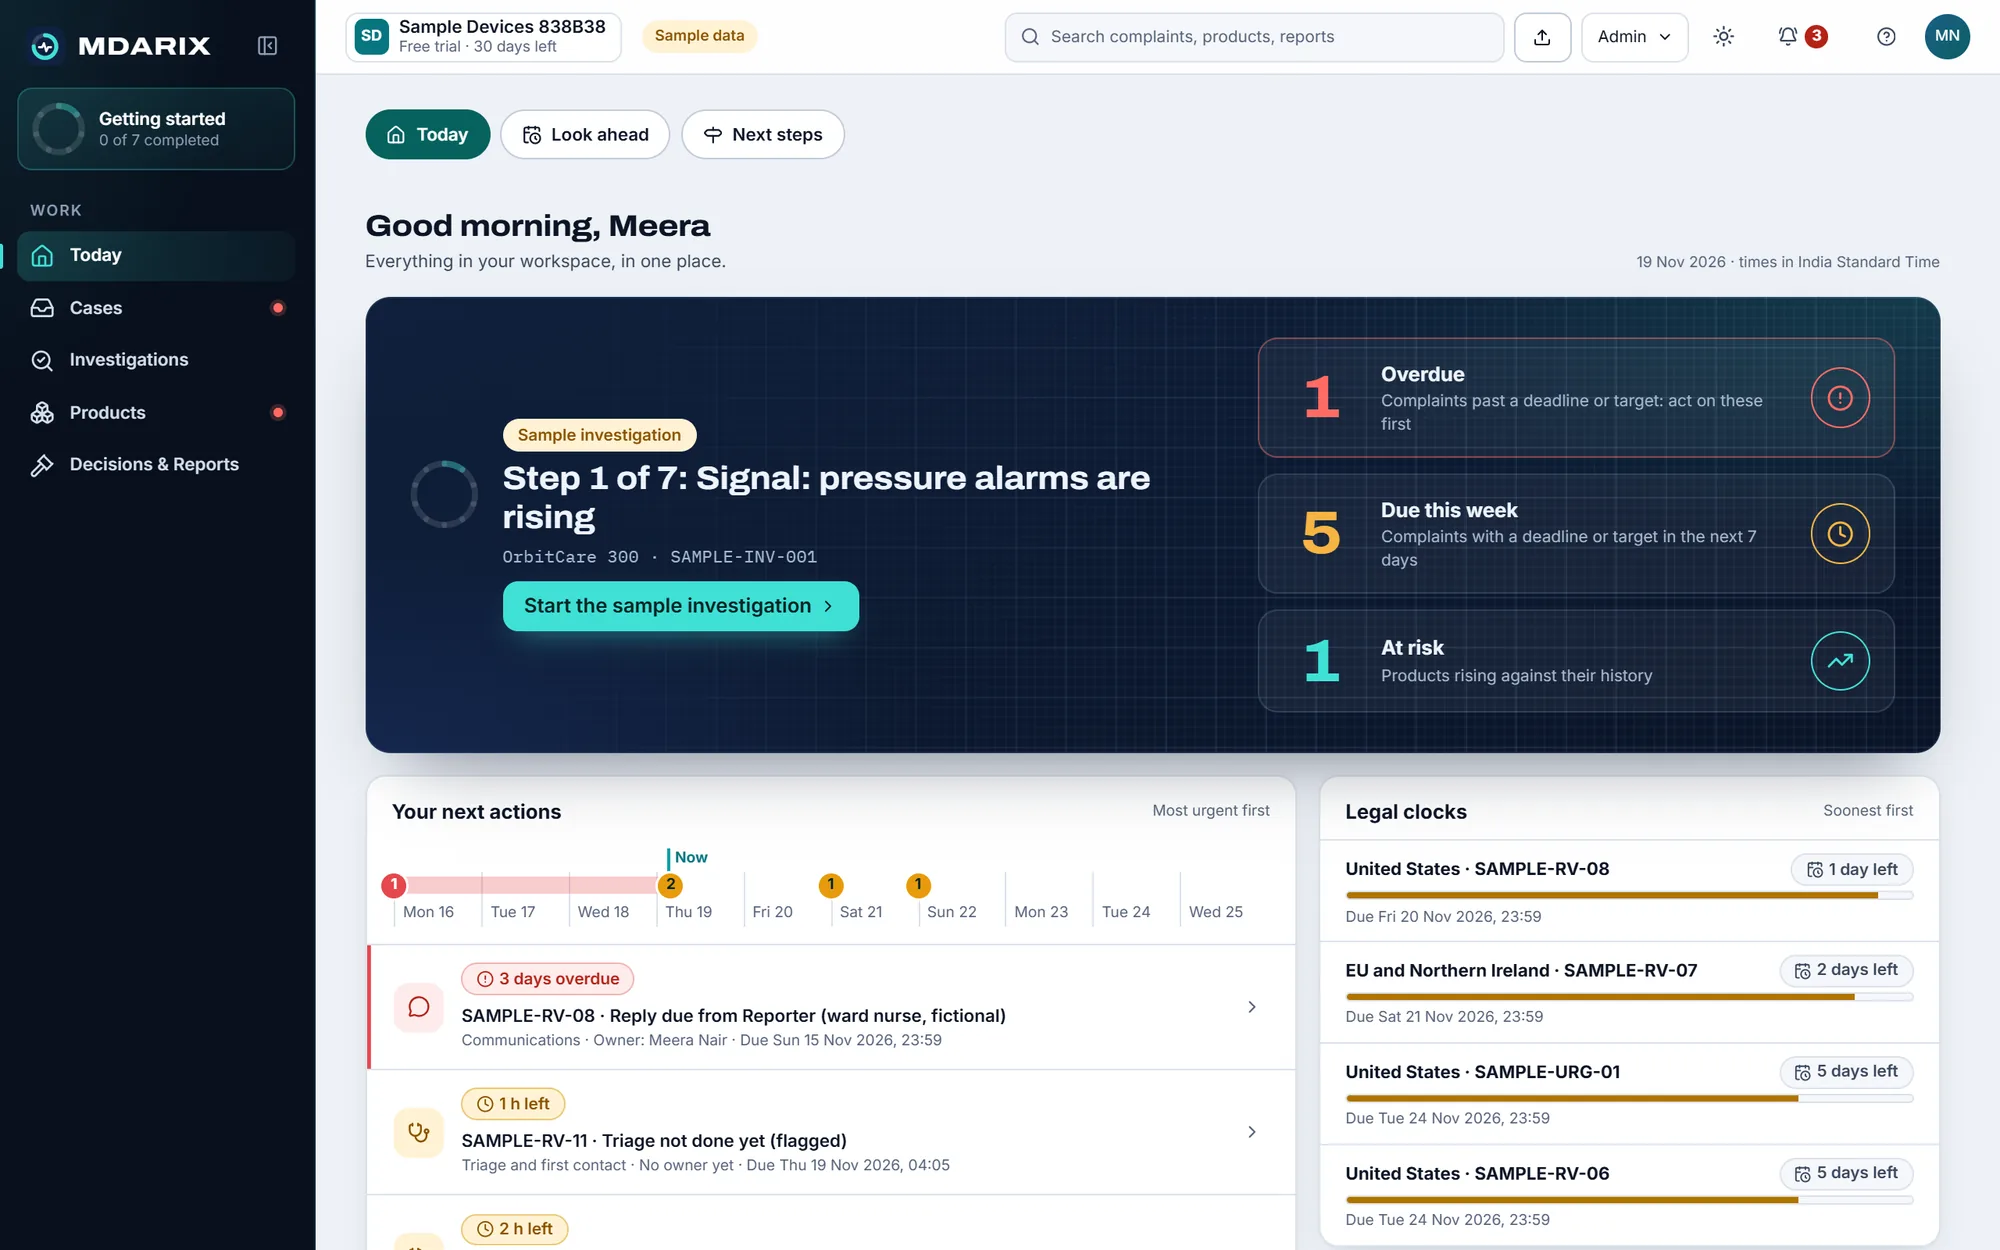
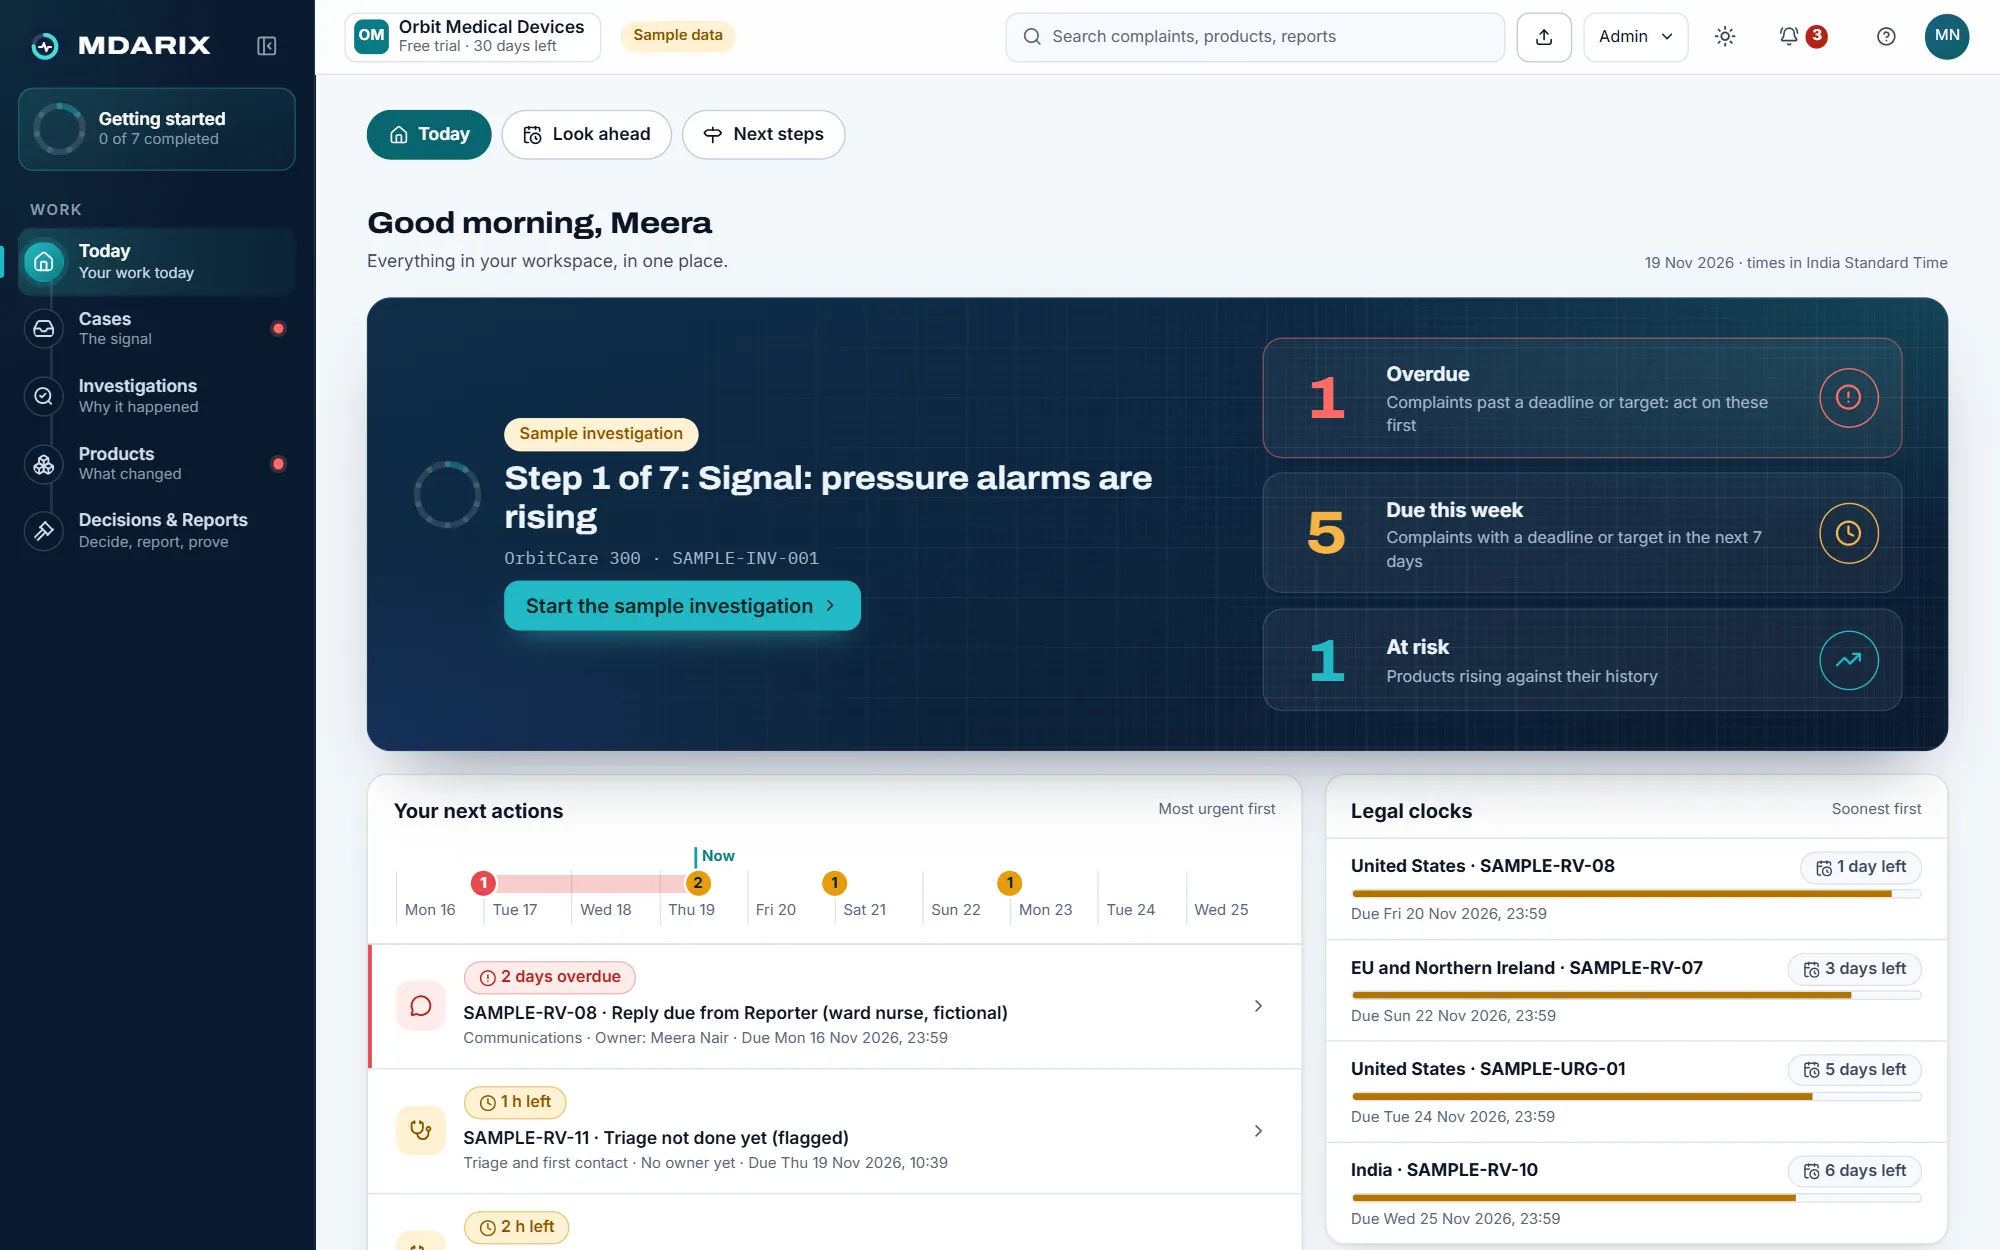
feat(site): the six product screens recaptured from the 0.11.07 application
hero (Today, 2000x1250), signal (the trend check), product (Product 360, Rev A beside Rev B), investigation (the
cockpit's evidence step), decision (the signed decision and its impact) and effectiveness (SAMPLE-CAPA-02's check,
signed inconclusive on the synthetic follow-up), each 1600x1000 unless named, webp at 62-100 KB. Captured from free
trials with the sample data on a local test database, data loaded and motion finished; the organization is shown as
"Orbit Medical Devices" with the Sample data label; people are the sample's fictional names. The signal alt texts say
what the picture shows (the trend check, not the Cases list).

diff --git a/frontend/src/site/pages.tsx b/frontend/src/site/pages.tsx
@@ -153,7 +153,7 @@ const STORY = [
     text: "Complaints are counted per product version against their own history, so a rise after a change shows up before anyone spots it in a spreadsheet. Closed “no fault found” complaints get a second look.",
     area: ["Cases", "/platform#cases"],
     shot: "signal",
-    alt: "MDARIX Cases: the OrbitCare 300 pressure-alarm trend, rising after Rev B, from the trial's sample data",
+    alt: "MDARIX trend check: OrbitCare 300 Rev B, 9 pressure-alarm complaints in 30 days against 1.0 expected, from the trial's sample data",
   },
   {
     id: "product",
@@ -309,7 +309,7 @@ export function HomePage() {
 // Each work area's own screen, from a free trial's sample data.
 const AREA_SHOTS: Record<(typeof WORK_AREAS)[number]["id"], [string, string]> = {
   today: ["hero", "MDARIX Today: the person's own work first, from the trial's sample data"],
-  cases: ["signal", "MDARIX Cases: the OrbitCare 300 pressure-alarm trend, rising after Rev B"],
+  cases: ["signal", "MDARIX trend check: OrbitCare 300 Rev B rising against its own history"],
   investigations: ["investigation", "MDARIX Investigations: SAMPLE-INV-001, what is known and what is not"],
   products: ["product", "MDARIX Products: OrbitCare 300 Rev B compared with Rev A"],
   decisions: ["decision", "MDARIX Decisions: the decision signed by a person with password and authenticator code"],
